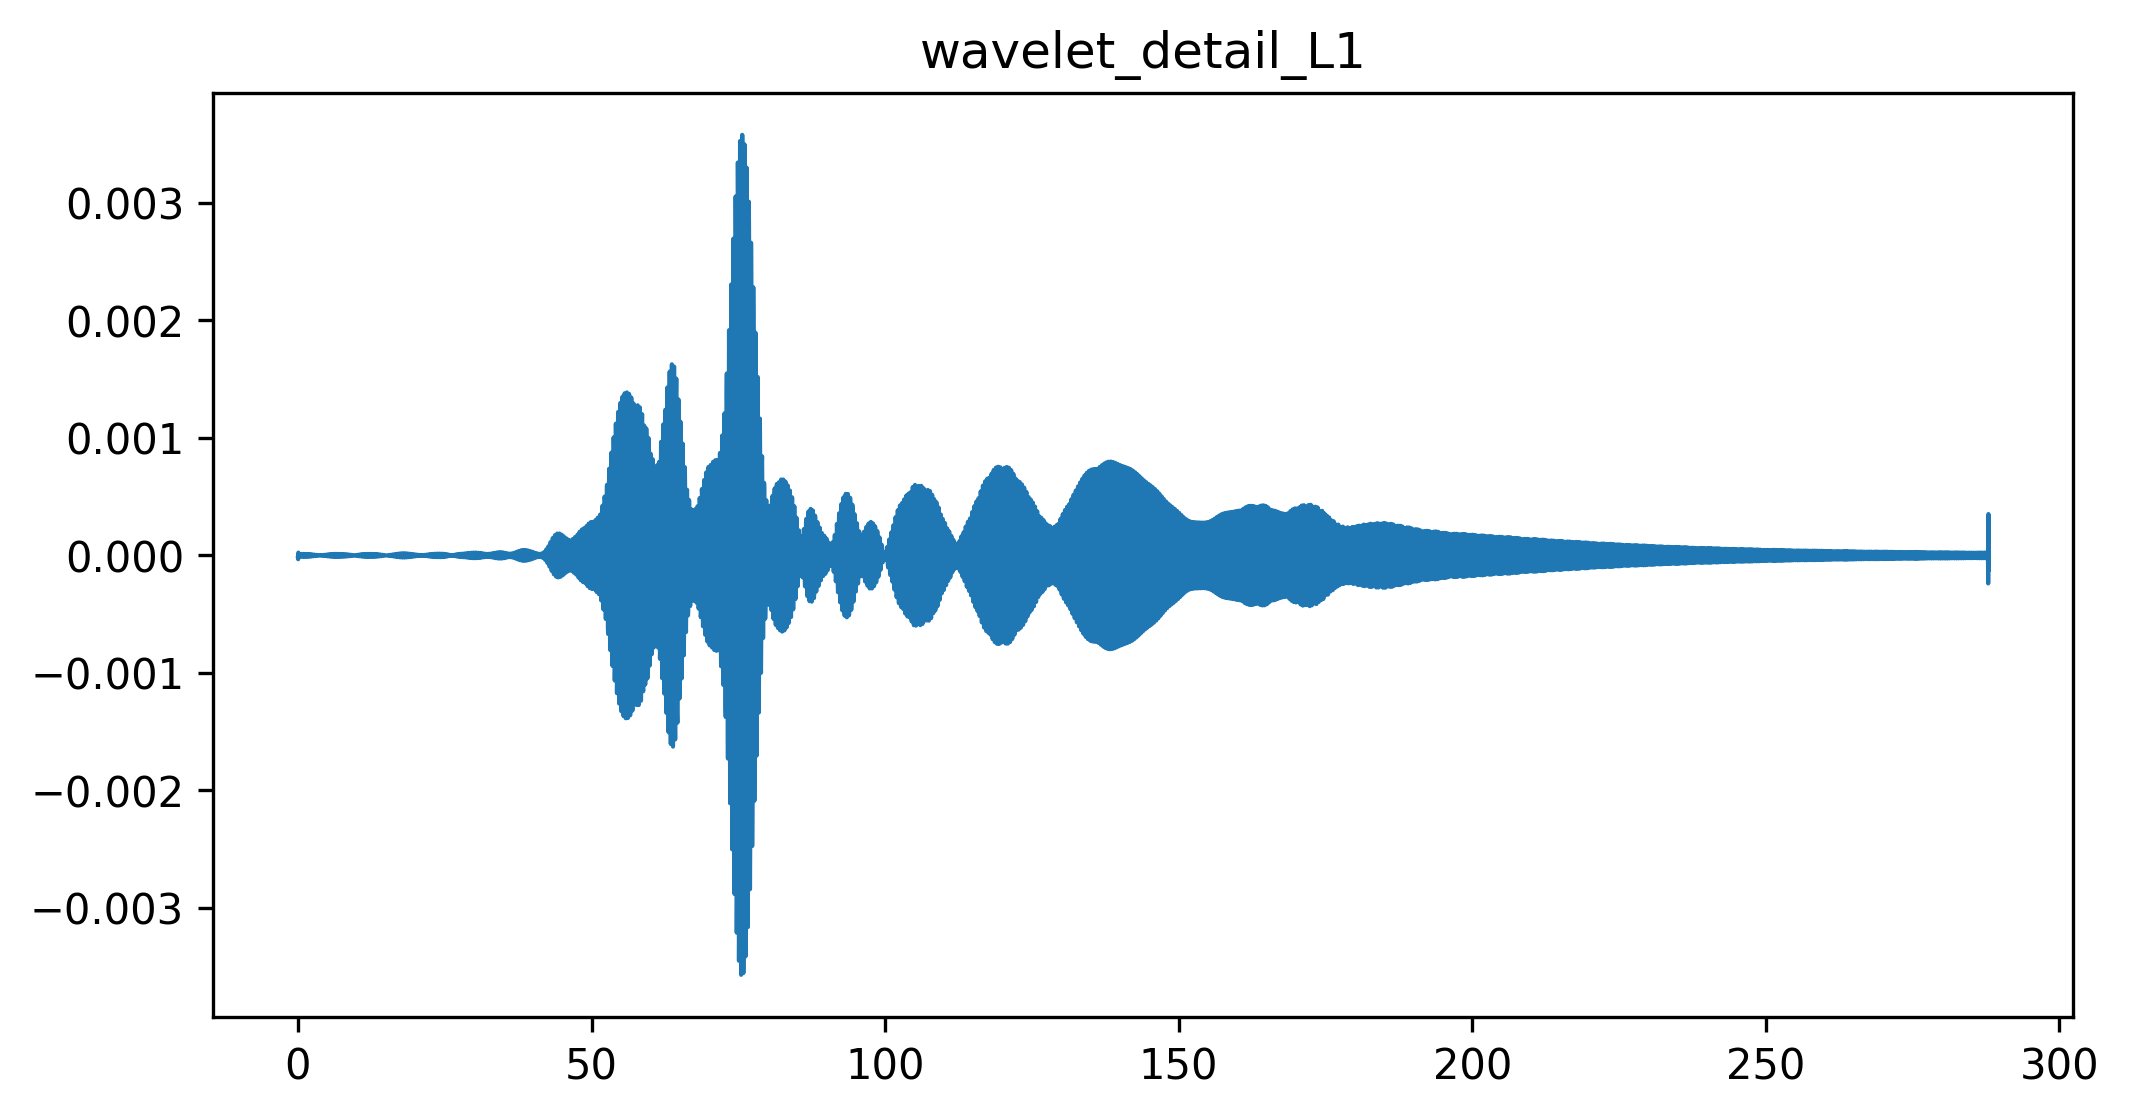
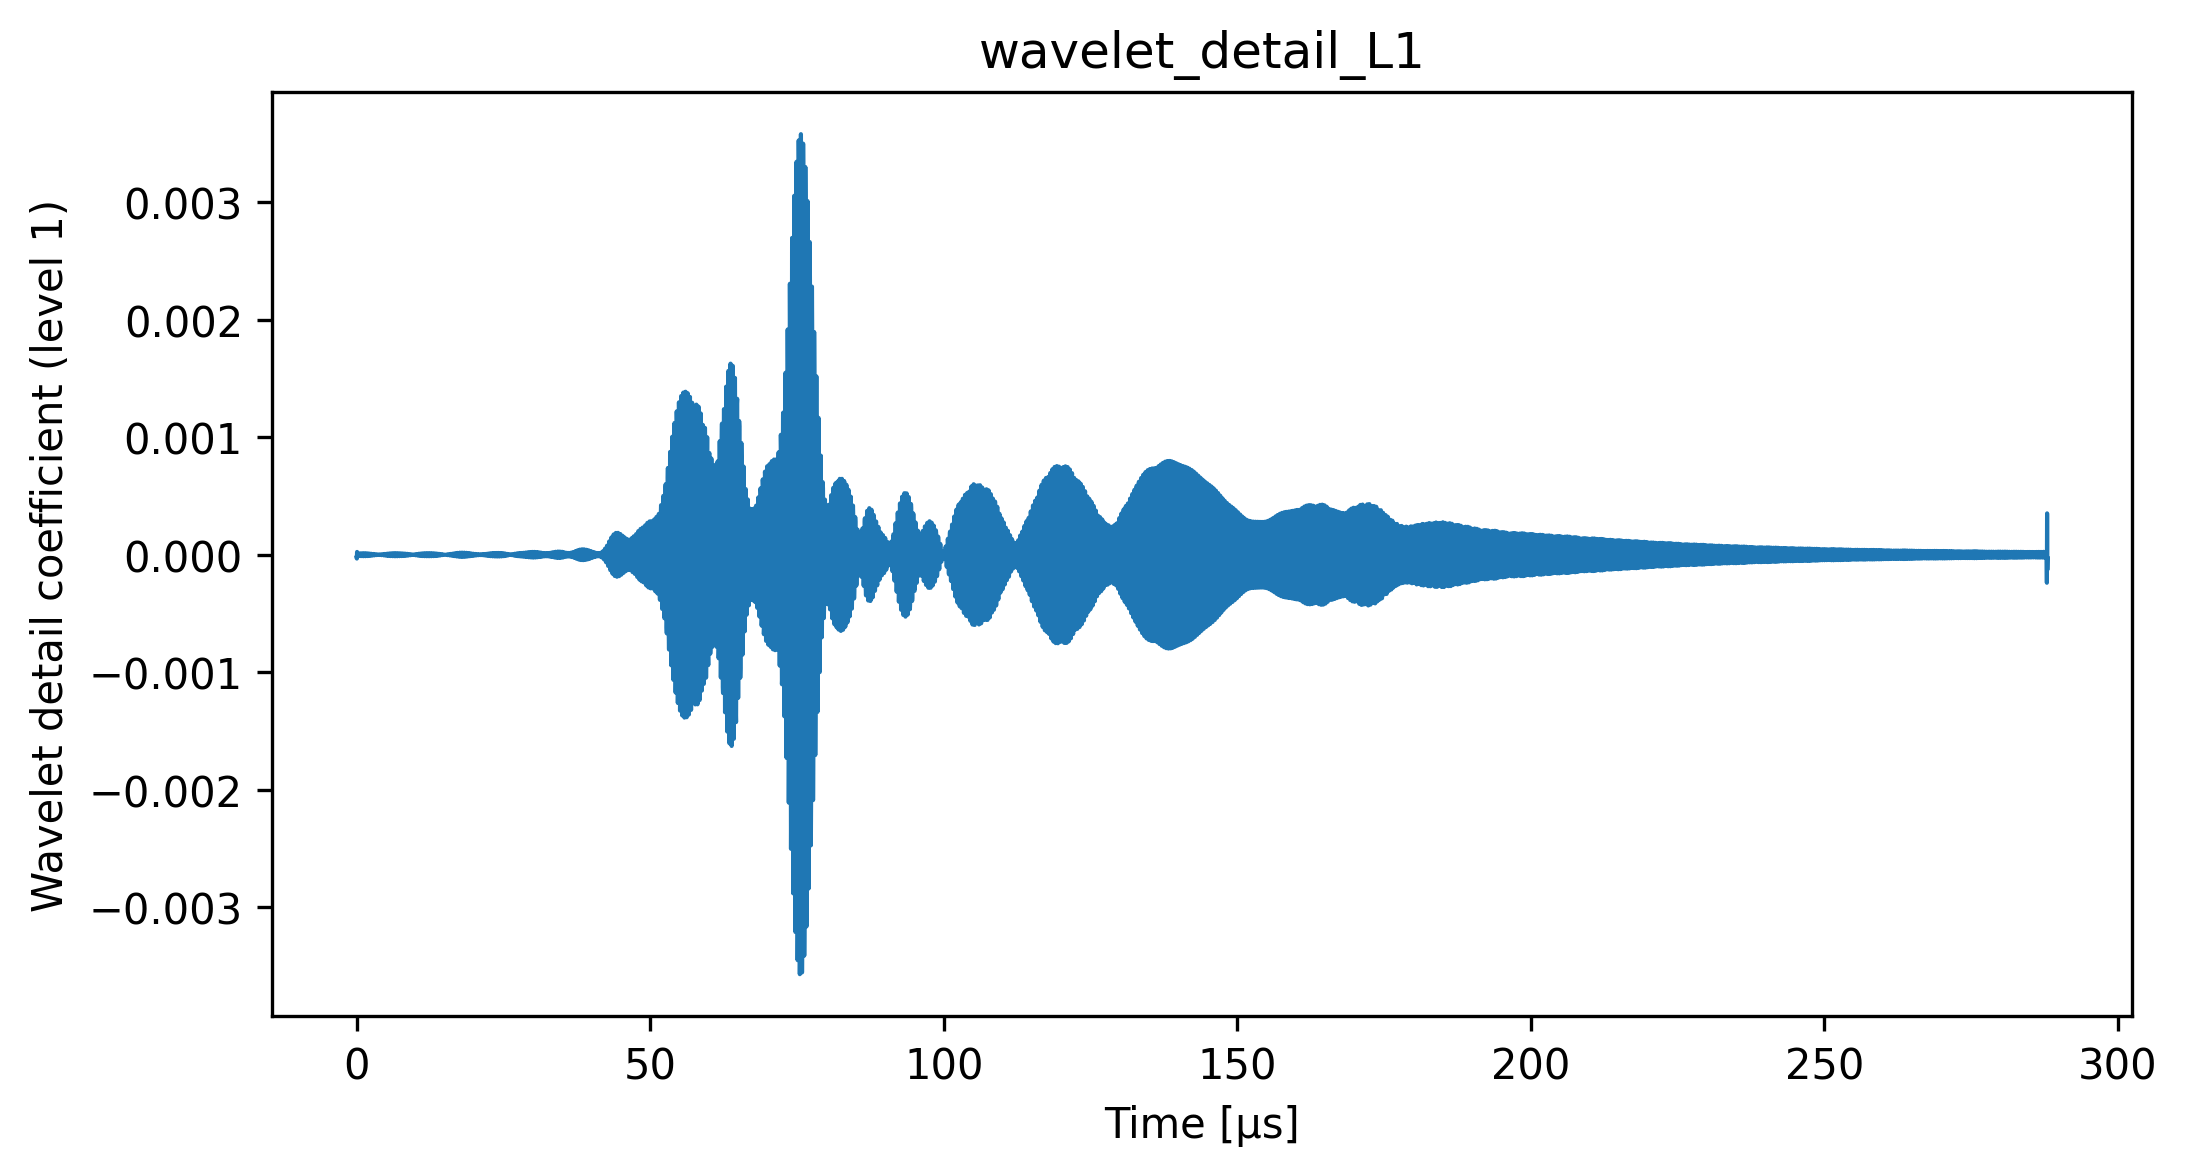
changes

Changed region(s): [[0.0, 0.0304, 0.992, 0.9732], [0.0, 0.6386, 0.124, 0.8211], [0.124, 0.9428, 0.155, 0.9732]]

diff --git a/Mains/main_wavelet.py b/Mains/main_wavelet.py
@@ -20,7 +20,14 @@ cD1 = coeffs[-1] #grab first detail level (finest scale)
 
 #simple time axis to match its length
 t_cD1 = np.linspace(t.iloc[0], t.iloc[-1], len(cD1))
+plt.figure(figsize=(8,4))
+plt.plot(t_cD1, cD1, linewidth=1)
+plt.xlabel("Time [µs]")
+plt.ylabel("Wavelet detail coefficient (level 1)")
+plt.title("wavelet_detail_L1")
+plt.savefig("plots/wavelet_detail_L1.png", dpi=300, bbox_inches='tight')
+plt.close()
 
-preprocess.plot(t_cD1, cD1, 1, 'wavelet_detail_L1')
+
 
 wavelet_scalogram(t, y, wavelet='cmor1.5-1.0', n_scales=100, name="wavelet_scalogram") #Runs the Continuous Wavelet Transform (CWT) using a complex Morlet wavelet

diff --git a/transforms/wavelet_processing.py b/transforms/wavelet_processing.py
@@ -20,6 +20,7 @@ def wavelet_decompose(sig, wavelet='db4', level=None):  #this is a multi-level d
     coeffs = pywt.wavedec(sig, wavelet=w, level=level) #actual Discrete Wavelet Transform
     return coeffs  
 
+
 def wavelet_scalogram(t, sig, wavelet='cmor1.5-1.0', n_scales=100, name="wavelet_scalogram"): #wavelet time–frequency map (CWT)
     sig = np.asarray(sig).squeeze()
     t = np.asarray(t).squeeze()
